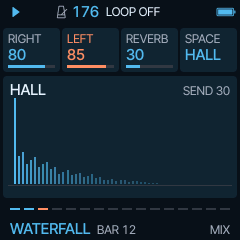
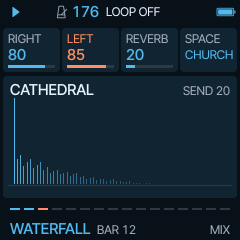
CATHEDRAL at 20 % is the default space
The MIX page starts in CATHEDRAL with a 20 % send (was HALL, 30 %). The card shows CHURCH (CATHEDRAL does not fit a
card, as in Tuna), the panel CATHEDRAL. A record saved by 0.1 with its default (HALL 30) takes the new one; any
other choice is kept.

Claude-Session: https://claude.ai/code/session_01PnoYnZtVBWxHzzPfGGLaHB

diff --git a/firmware/src/ff_ui.c b/firmware/src/ff_ui.c
@@ -107,7 +107,8 @@ static const char *const FN_FIGURE[] = {"RISE", "WAVE", "ALBERTI", "BROKEN", "TR
 static const char *const FN_SCALE[] = {"SCORE", "MINOR", "DORIAN", "LYDIAN"};
 static const char *const FN_BASS[] = {"OCTAVE", "SINGLE", "DRONE", "NONE"};
 static const char *const FN_FORM[] = {"ONCE", "REPEAT", "EVOLVE"};
-static const char *const FN_SPACE[] = {"ROOM", "HALL", "CATHEDRAL"};
+static const char *const FN_SPACE[] = {"ROOM", "HALL", "CHURCH"};           /* (the card: CATHEDRAL does not fit, as Tuna) */
+static const char *const FN_SPACE_LONG[] = {"ROOM", "HALL", "CATHEDRAL"};   /* (the MIX panel) */
 static const char *const FN_STYLE[] = {"FLAT", "LINE"};
 #define C_NUM(l, f) {l, FS_(f), FC_NUM, 0, 100, 5, 0}
 #define C_LIST(l, f, n) {l, FS_(f), FC_LIST, 0, (int16_t)(sizeof n / sizeof n[0]) - 1, 1, n}
@@ -508,7 +509,7 @@ static void fu_panel_space(ff_ui *u)
 {
     const ff_player *p = u->pl;
     char t[16], a[8];
-    cv_text_on(10, 4, &AF_M, FN_SPACE[p->s.space % FF_SPACE_COUNT], T_TEXT, T_SURF);
+    cv_text_on(10, 4, &AF_M, FN_SPACE_LONG[p->s.space % FF_SPACE_COUNT], T_TEXT, T_SURF);
     fu_cpy(t, "SEND ", sizeof t);
     fu_fmt_int(a, p->s.reverb);
     fu_cat(t, a, sizeof t);

diff --git a/firmware/src/ff_fw.c b/firmware/src/ff_fw.c
@@ -93,6 +93,10 @@ static void ff_settings_load(void)
         ff_defaults(&s);                                     /* (a shorter, older record: the new fields their defaults) */
         uint32_t k = r.size < sizeof s ? r.size : sizeof s;
         memcpy(&s, &r.s, k);
+        if (r.ver < 2 && s.space == FF_SPACE_HALL && s.reverb == 30) {   /* 0.1's default space: 0.2's (CATHEDRAL 20) */
+            s.space = FF_SPACE_CATHEDRAL;
+            s.reverb = 20;
+        }
         ff_settings_fix(&s);
         ff_pl.s = s;
     }
@@ -105,7 +109,7 @@ static void ff_settings_save(void)
     memset(&r, 0, sizeof r);
     r.magic = FF_REC_MAGIC;
     r.size = (uint16_t)sizeof r.s;
-    r.ver = 1;
+    r.ver = 2;                                               /* (2: since 0.2, CATHEDRAL 20 the default) */
     r.s = ff_pl.s;
     st_save(OBJ_PROJECT0, &r, sizeof r);
 #endif

diff --git a/firmware/src/ff_player.c b/firmware/src/ff_player.c
@@ -26,7 +26,7 @@ void ff_defaults(ff_settings *s)
     s->mode = FF_MODE_FREE; s->ramp = 0; s->click = 0; s->count = 0;
     s->vary = 0; s->figure = FF_FIG_WAVE; s->spread = 3; s->seed = 17;
     s->key = 0; s->scale = FF_SCALE_SCORE; s->bass = FF_BASS_OCTAVE; s->form = FF_FORM_ONCE;
-    s->right = 80; s->left = 85; s->reverb = 30; s->space = FF_SPACE_HALL;
+    s->right = 80; s->left = 85; s->reverb = 20; s->space = FF_SPACE_CATHEDRAL;
     s->bpm = 176; s->palette = 3; s->style = 0;
 }
 

diff --git a/tests/ff_felucca.c b/tests/ff_felucca.c
@@ -66,8 +66,8 @@ int main(int argc, char **argv)
     P.s.rubato = (uint8_t)env_int("RUBATO", 35);
     P.s.bright = (uint8_t)env_int("BRIGHT", 60);
     P.s.decay = (uint8_t)env_int("DECAY", 60);
-    P.s.reverb = (uint8_t)env_int("REVERB", 30);
-    P.s.space = (uint8_t)env_int("SPACE", 1);
+    P.s.reverb = (uint8_t)env_int("REVERB", 20);
+    P.s.space = (uint8_t)env_int("SPACE", 2);
     if (getenv("BARS")) {
         int a = 1, b = 2;
         sscanf(getenv("BARS"), "%d,%d", &a, &b);

diff --git a/README.md b/README.md
@@ -32,7 +32,7 @@ that music in a pocket synth, to play it, to learn it, to make it fall like wate
   KEY, play it in MINOR, DORIAN or LYDIAN, change the BASS, and let FORM EVOLVE: a new variation every round.
 
 Eight sounds on Felucca's engines: GRAND (a Steinway D, sampled), TINE EP, HARP, CELESTA, MUSIC BOX, KALIMBA, MARIMBA,
-SINE KEY; three spaces of reverb; ten colours.
+SINE KEY; three spaces of reverb (CATHEDRAL at 20 % to start); ten colours.
 
 ## The controls
 
